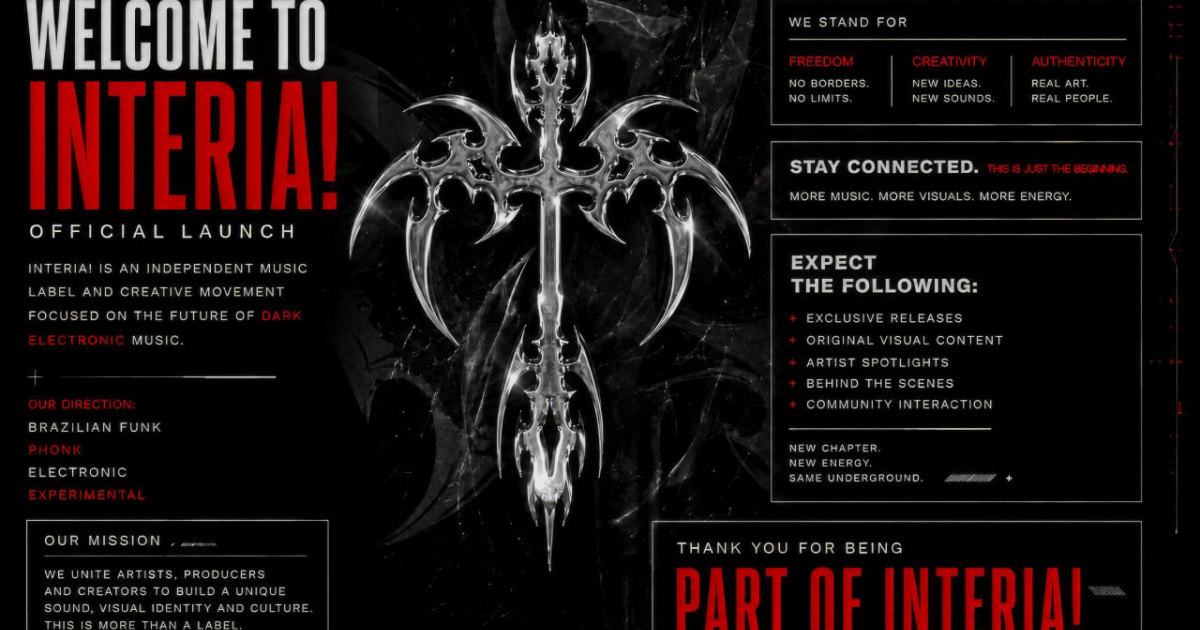
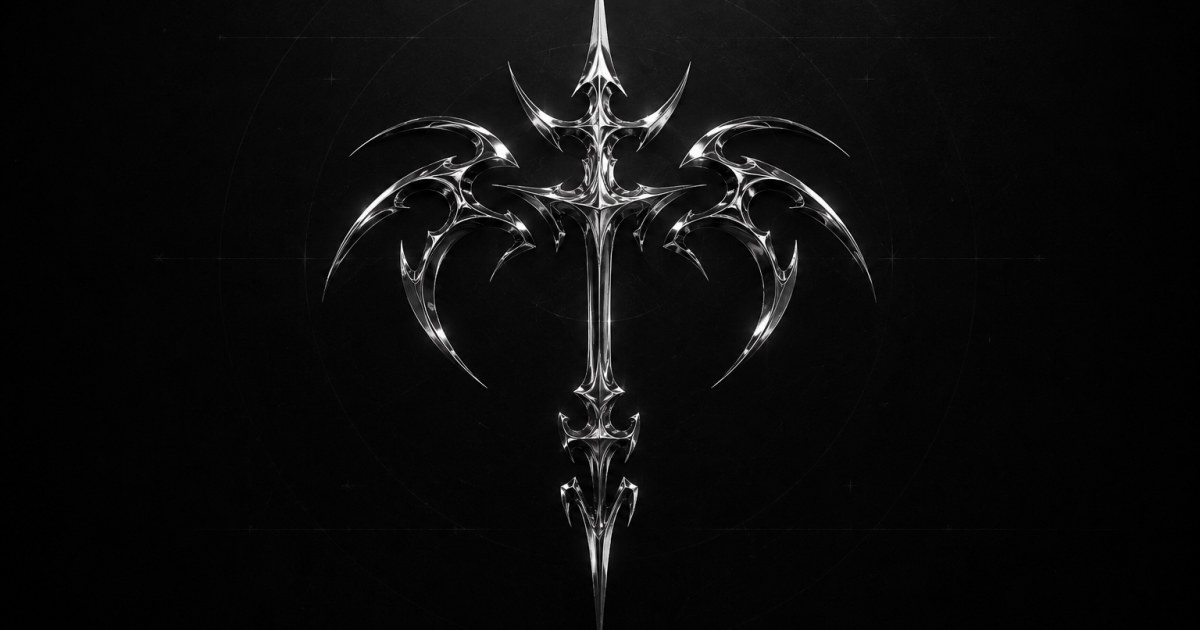
OG-превью: новый хром-логотип 1200x630 + слоган, абсолютные og/canonical под домен interiarecords.com

diff --git a/index.html b/index.html
@@ -6,17 +6,19 @@
 <title>INTERIA! — независимый лейбл</title>
 <meta name="description" content="INTERIA! — независимый лейбл и движение. Тёмная электроника, фонк, эксперимент. 90% артисту, питчинг и продвижение. Присылай демо." />
 <meta name="theme-color" content="#09090b" />
+<link rel="canonical" href="https://www.interiarecords.com/" />
 <meta property="og:type" content="website" />
 <meta property="og:site_name" content="INTERIA!" />
-<meta property="og:title" content="INTERIA! — независимый лейбл" />
-<meta property="og:description" content="Тёмная электроника, фонк, эксперимент. 90% артисту. Присылай демо." />
-<meta property="og:image" content="/og.jpg" />
+<meta property="og:url" content="https://www.interiarecords.com/" />
+<meta property="og:title" content="INTERIA!" />
+<meta property="og:description" content="Мы создаём будущее музыки. Остальное — история." />
+<meta property="og:image" content="https://www.interiarecords.com/og.jpg?v=2" />
 <meta property="og:image:width" content="1200" />
 <meta property="og:image:height" content="630" />
 <meta name="twitter:card" content="summary_large_image" />
-<meta name="twitter:title" content="INTERIA! — независимый лейбл" />
-<meta name="twitter:description" content="Тёмная электроника, фонк, эксперимент. 90% артисту. Присылай демо." />
-<meta name="twitter:image" content="/og.jpg" />
+<meta name="twitter:title" content="INTERIA!" />
+<meta name="twitter:description" content="Мы создаём будущее музыки. Остальное — история." />
+<meta name="twitter:image" content="https://www.interiarecords.com/og.jpg?v=2" />
 <link rel="apple-touch-icon" href="./logo.png" />
 <link rel="preconnect" href="https://fonts.googleapis.com">
 <link rel="preconnect" href="https://fonts.gstatic.com" crossorigin>

diff --git a/CLAUDE.md b/CLAUDE.md
@@ -50,7 +50,15 @@
 - api/demo.js — приём формы -> Telegram-группа (chat_id зашит в коде = GROUP_CHAT_ID; env игнор)
 - vercel.json — security headers (OWASP/Helmet-уровень) + framework=vite
 
+## Внутренняя панель (приватный инструмент)
+- Роут `#/panel` (src/components/Panel.jsx) — рендерится ОТДЕЛЬНО, без шапки/фона сайта (early return в App).
+- Гейт по паролю (PASS в Panel.jsx, сейчас "INTERIA"), флаг в sessionStorage. Это лёгкое скрытие, НЕ криптозащита.
+- Две вкладки: Релизы (артист/релиз/статус/дата/стримы/питч/owner) и Задачи. Экспорт CSV.
+- Хранилище v0 = localStorage (на устройстве). СЛЕДУЮЩИЙ ШАГ: общий бэкенд (Vercel KV/Upstash),
+  чтобы вся команда видела одни и те же данные + серверная проверка пароля.
+
 ## 📓 Журнал правок сайта
+- 2026-06-30: добавлена приватная внутренняя панель `#/panel` (трекер релизов + задач, v0 на localStorage).
 - 2026-06-30: **шрифты** — всё перевели на Space Grotesk (index.html link, tailwind.config.js, index.css: body/.serif/.label).
 - 2026-06-30: **Hero** — убрали подзаголовок «будущее тёмной электроники» и строку жанров (GENRES). Это убрало наезд кнопок на статы.
 - 2026-06-30: **Hero-статы** — убрали плитку «33 релиза», «50»→«60», сетка grid-cols-3.